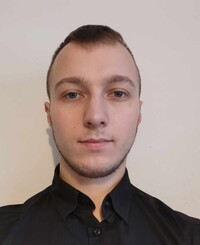
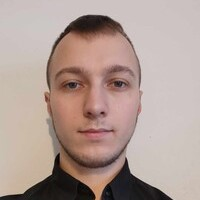
Add styles

Changed region(s): [[0.0, 0.24, 1.0, 1.0], [0.27, 0.06, 0.66, 0.21], [0.66, 0.24, 0.72, 0.33]]

diff --git a/homeworks/04-css/index.html b/homeworks/04-css/index.html
@@ -4,22 +4,24 @@
     <meta charset="UTF-8" />
     <meta name="viewport" content="width=device-width, initial-scale=1.0" />
     <title>Portfolio</title>
-    <link rel="stylesheet" href="styles.css" />
+    <link rel="stylesheet" href="./styles.css" />
   </head>
   <body>
     <header>
-      <section>
-        <img src="./img/portret.jpg" />
-        <div>
+      <section class="profile-container">
+        <img src="./img/portret.jpg" class="profile-container__img" />
+        <div class="profile-container__details">
           <h1>Konrad Harężlak</h1>
           <p>Frontend/Fullstack Developer</p>
-          <div>
-            <a href=""><img src="./img/github.svg" /></a>
-            <a href=""><img src="./img/linkedin.svg" /></a>
-          </div>
+          <a href="https://github.com/konrad-harezlak"
+            ><img src="./img/github.svg" class="profile-container__icons"
+          /></a>
+          <a href="https://www.linkedin.com/in/konradharezlak/"
+            ><img src="./img/linkedin.svg" class="profile-container__icons"
+          /></a>
         </div>
       </section>
-      <section>
+      <section class="profile-experience">
         <div>
           <p>
             0 <br />
@@ -27,8 +29,10 @@
           </p>
         </div>
         <div>
-          10+ <br />
-          Completed projects
+          <p>
+            10+ <br />
+            Completed projects
+          </p>
         </div>
         <div>
           <p>
@@ -37,33 +41,46 @@
           </p>
         </div>
       </section>
-      <section>
-        <button>
-          Download CV<img src="./img/file-arrow-down-solid.svg" />
+      <section class="profile-buttons">
+        <button class="profile-buttons__button-cv">
+          <p>Download CV</p>
+          <img
+            src="./img/file-arrow-down-solid.svg"
+            class="profile-buttons__icons"
+          />
         </button>
-        <button>Contact me</button>
+        <button class="profile-buttons__button-contact">Contact me</button>
       </section>
     </header>
     <main>
-      <nav><button>Portfolio</button> <button>Skills</button></nav>
-      <section>
-        <a href="https://calendar-frontend-brl8.onrender.com">
-          <img src="./img/calendar.png" />
+      <nav class="navigate-container">
+        <button class="navigate-container__button_enabled">Portfolio</button>
+        <button class="navigate-container__button">Skills</button>
+      </nav>
+      <section class="portfolio-container">
+        <a class="portfolio-container__link" href="https://calendar-frontend-brl8.onrender.com">
+          <img class="portfolio-container__image" src="./img/calendar.png" />
         </a>
-        <a href="https://task-manager-frontend-2l7a.onrender.com">
-          <img src="./img/task-list.png" />
+        <a class="portfolio-container__link" href="https://task-manager-frontend-2l7a.onrender.com">
+          <img class="portfolio-container__image" src="./img/task-list.png" />
         </a>
-        <a href="https://blog-bootstrap.netlify.app">
-          <img src="./img/bootstrap.png" />
+        <a class="portfolio-container__link" href="https://blog-bootstrap.netlify.app">
+          <img class="portfolio-container__image" src="./img/bootstrap.png" />
         </a>
-        <a href="https://simple-portfolio-hary.netlify.app">
-          <img src="./img/portfolio.png" />
+        <a class="portfolio-container__link" href="https://simple-portfolio-hary.netlify.app">
+          <img class="portfolio-container__image" src="./img/portfolio.png" />
         </a>
-        <a href="https://bpu-koncept.netlify.app">
-          <img src="./img/architecture.png" />
+        <a class="portfolio-container__link" href="https://bpu-koncept.netlify.app">
+          <img
+            class="portfolio-container__image"
+            src="./img/architecture.png"
+          />
         </a>
-        <a href="https://bussines-card-z31y.onrender.com">
-          <img src="./img/bussines-card.png" />
+        <a class="portfolio-container__link" href="https://bussines-card-z31y.onrender.com">
+          <img
+            class="portfolio-container__image"
+            src="./img/bussines-card.png"
+          />
         </a>
       </section>
     </main>

diff --git a/homeworks/04-css/styles.css b/homeworks/04-css/styles.css
@@ -1,0 +1,104 @@
+body {
+  background-color: #eee;
+  font-family: "Trebuchet MS", "Lucida Sans Unicode", "Lucida Grande",
+    "Lucida Sans", Arial, sans-serif;
+}
+header {
+  display: flex;
+  flex-direction: column;
+  justify-content: center;
+}
+.profile-container {
+  display: flex;
+  flex-direction: row;
+  width: 60%;
+  margin: 0 auto;
+  margin-top: 5%;
+  justify-content: center;
+}
+.profile-container__img {
+  height: 150px;
+  border-radius: 75px;
+  border: 2px solid #ff0;
+  margin-right: 20px;
+}
+.profile-container__details {
+  margin-top: 10px;
+}
+
+.profile-container__icons {
+  height: 30px;
+  margin-right: 20px;
+}
+.profile-experience {
+  display: flex;
+  width: 60%;
+  margin: 2% auto;
+  text-align: center;
+  justify-content: space-around;
+}
+.profile-buttons {
+  display: flex;
+  width: 50%;
+  margin: 2% auto;
+  justify-content: space-around;
+  height: 200%;
+}
+.profile-buttons__button-contact,
+.profile-buttons__button-cv {
+  width: 45%;
+  border-radius: 10px;
+  margin: 0 auto;
+  border: none;
+}
+.profile-buttons__button-contact {
+  background-color: white;
+}
+.profile-buttons__button-cv {
+  background: #fbd144;
+  display: flex;
+  flex-direction: row;
+  justify-content: center;
+  align-items: center;
+}
+.profile-buttons__icons {
+  height: 20px;
+  margin-left: 10px;
+}
+.navigate-container{
+    width:60%;
+    height: 5vh;
+    margin: 3% auto;
+    display: flex;
+    justify-content: space-around;
+    align-items: center;
+    background-color: white;
+    border-radius: 20px;
+}
+[class*="navigate-container__button"]{
+    width: 45%;
+    height: 80%;
+    border:none;
+    border-radius: 10px;
+    background-color: white;
+}
+.navigate-container__button_enabled{
+    background-color: #aaa;
+}
+.portfolio-container{
+    width:60%;
+    display: flex;
+    flex-wrap:wrap;
+    margin:0 auto;
+}
+.portfolio-container__link{
+    width:46%;
+    margin:2%;
+}
+.portfolio-container__image{
+    width:100%;
+    border-radius: 20px;
+}
+footer{
+    text-align: center;
+}
